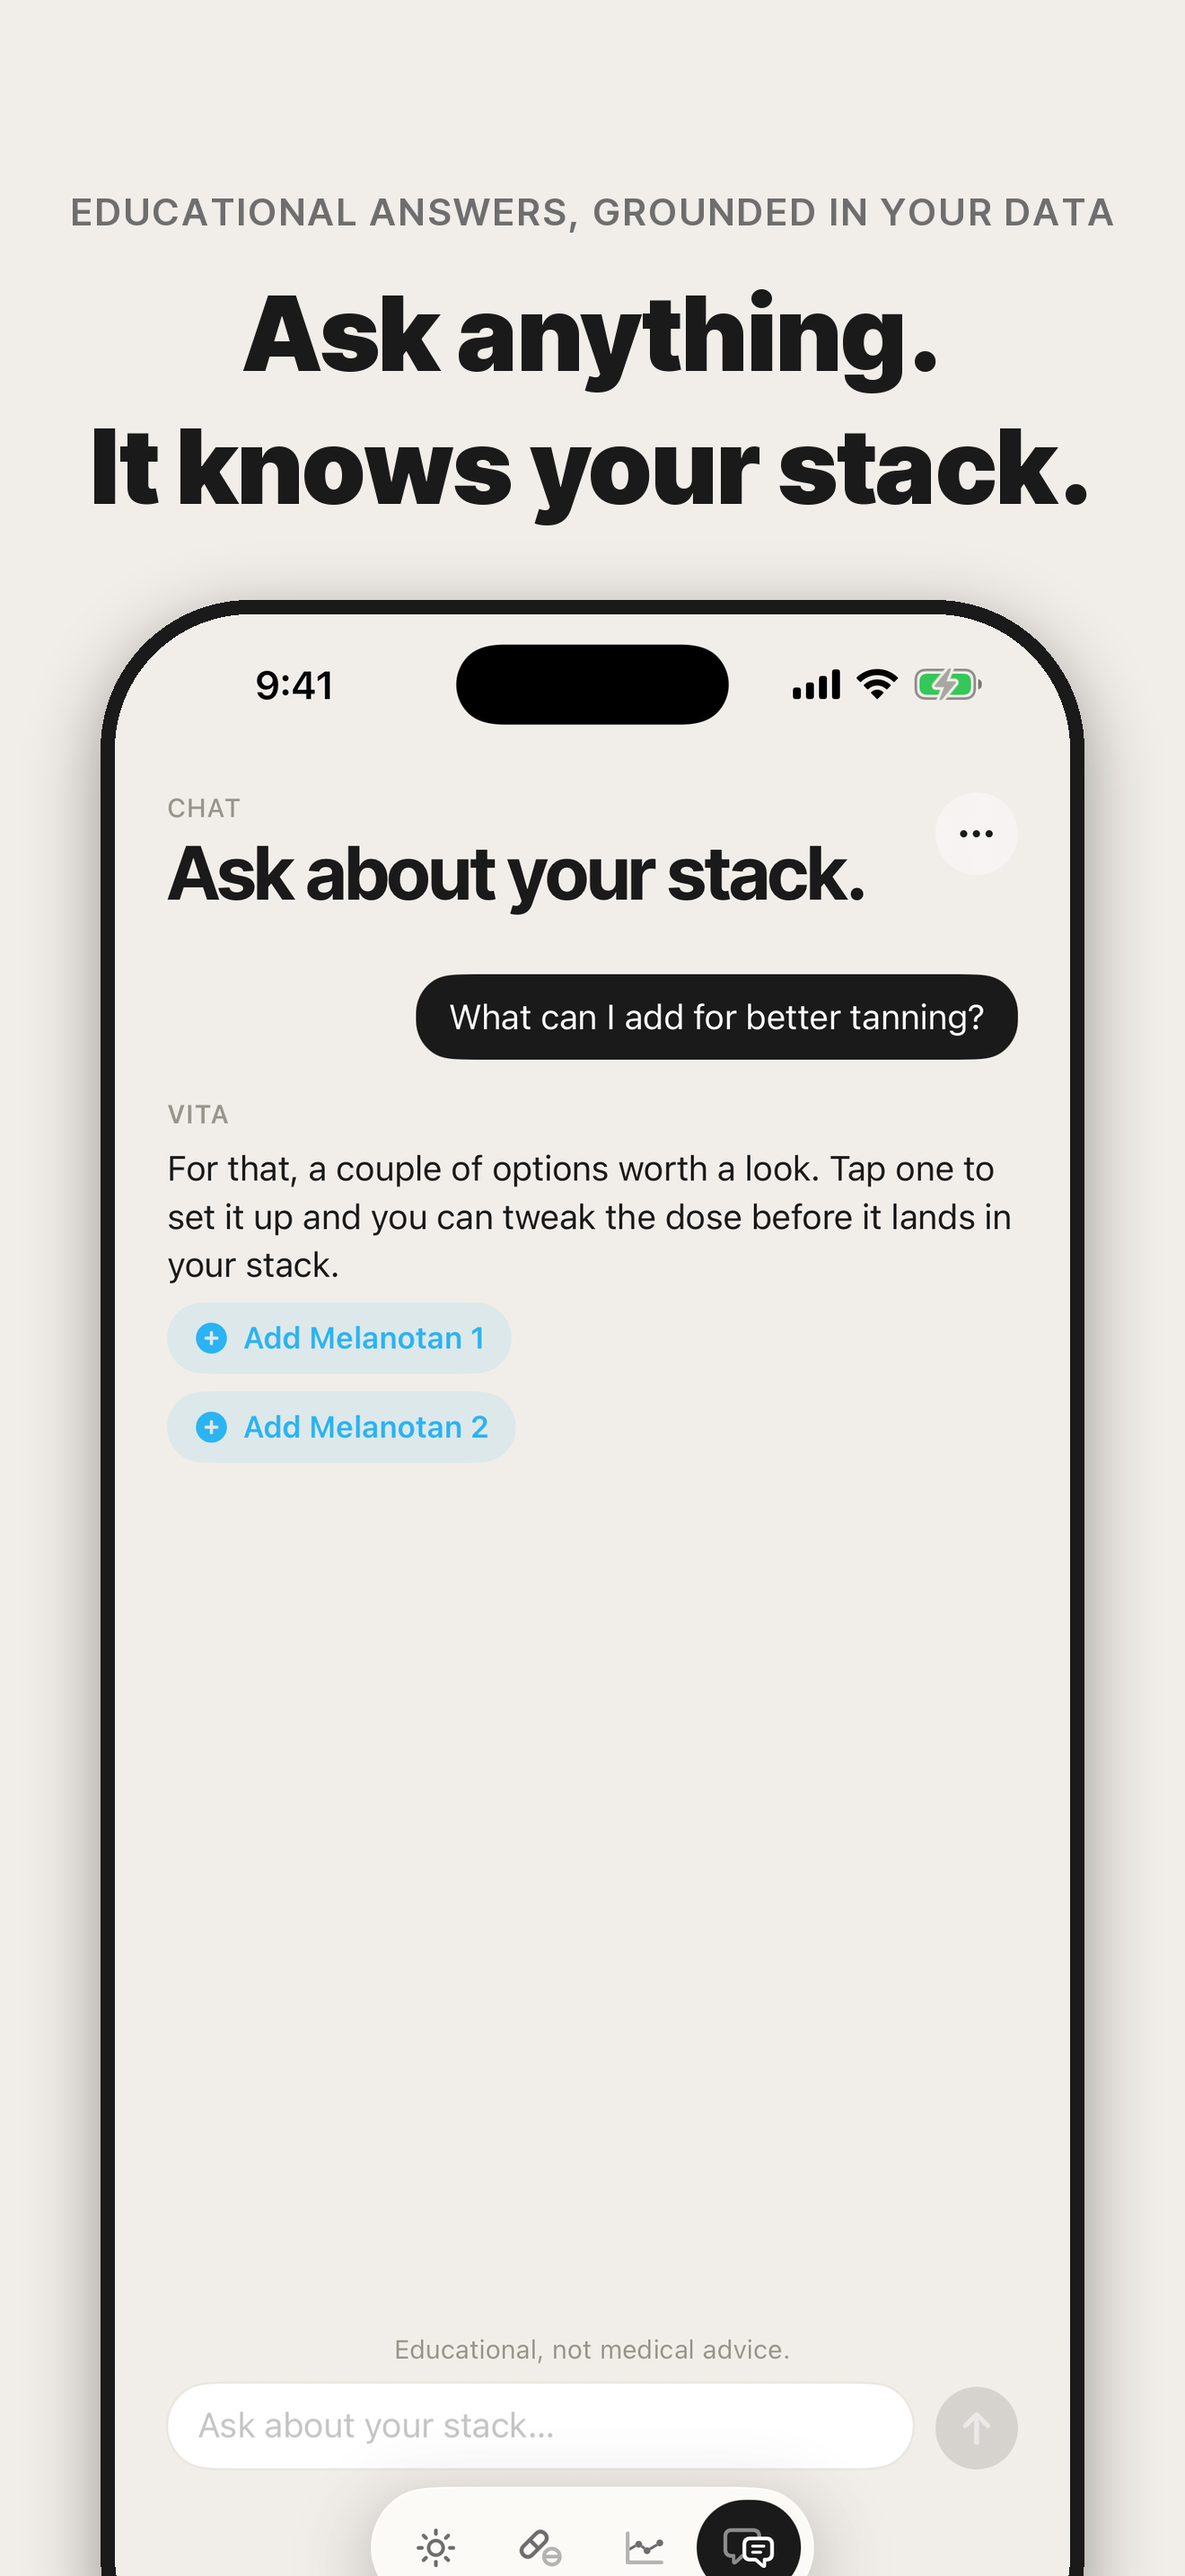
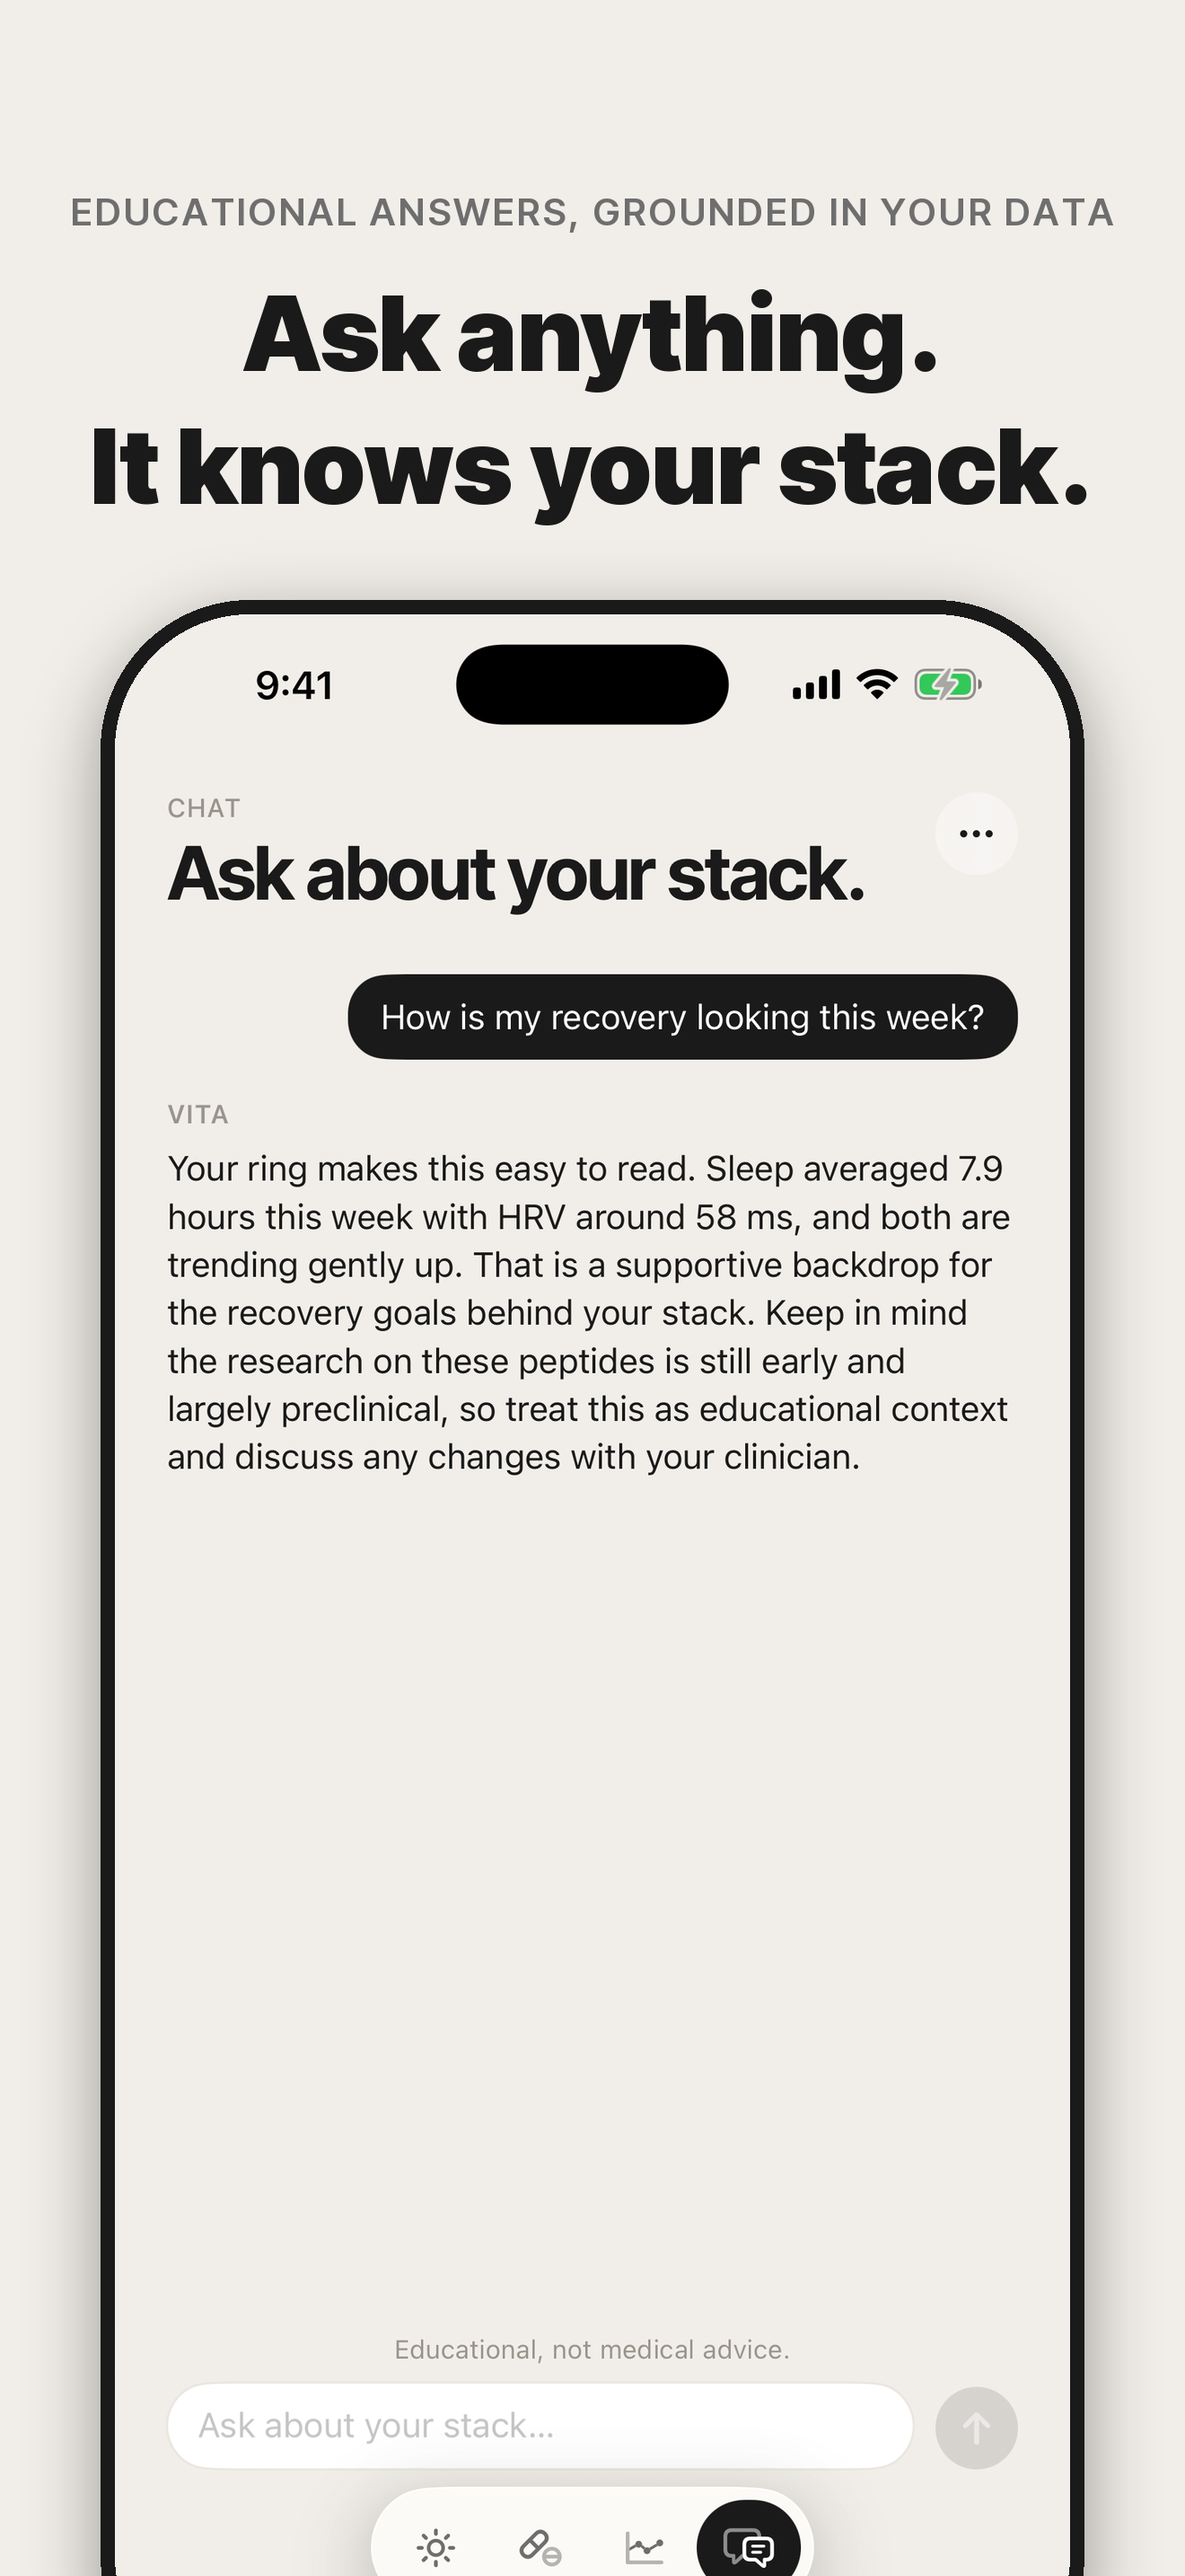
M52b: defensible chat demo (grounded educational answer, no compound suggestions)

Changed region(s): [[0.1242, 0.3724, 0.8386, 0.5896], [0.6212, 0.3724, 0.8076, 0.4034]]

diff --git a/Vita/Data/Claude/ClaudeService.swift b/Vita/Data/Claude/ClaudeService.swift
@@ -374,6 +374,25 @@ struct StubClaudeService: ClaudeServiceProviding {
             return r.filter { inCatalog.contains($0) }
         }()
 
+        // Screenshot exchange (M52): a grounded, purely educational answer with no
+        // suggestion chips, so marketing shots never show the app recommending a
+        // compound. Values mirror the VITA_OURA_DEMO diary so the set stays consistent.
+        if q.contains("recovery") {
+            let reply = "Your ring makes this easy to read. Sleep averaged 7.9 hours this week with HRV around 58 ms, and both are trending gently up. That is a supportive backdrop for the recovery goals behind your stack. Keep in mind the research on these peptides is still early and largely preclinical, so treat this as educational context and discuss any changes with your clinician."
+            return AsyncThrowingStream { continuation in
+                let task = Task {
+                    for word in reply.split(separator: " ", omittingEmptySubsequences: false) {
+                        try? await Task.sleep(nanoseconds: 28_000_000)
+                        if Task.isCancelled { continuation.finish(); return }
+                        continuation.yield(.text(String(word) + " "))
+                    }
+                    continuation.yield(.finished)
+                    continuation.finish()
+                }
+                continuation.onTermination = { _ in task.cancel() }
+            }
+        }
+
         let reply = recommend.isEmpty
             ? "Happy to talk it through. Tell me a goal and I will point you at what is worth a look."
             : "For that, a couple of options worth a look. Tap one to set it up and you can tweak the dose before it lands in your stack."

diff --git a/Vita/Features/Chat/ChatView.swift b/Vita/Features/Chat/ChatView.swift
@@ -79,7 +79,7 @@ struct ChatView: View {
             #endif
             #if DEBUG
             if ProcessInfo.processInfo.environment["VITA_CHAT_DEMO"] == "1", messages.isEmpty {
-                send("What can I add for better tanning?")
+                send("How is my recovery looking this week?")
             }
             if ProcessInfo.processInfo.environment["VITA_CHAT_FOCUS"] == "1" {
                 try? await Task.sleep(nanoseconds: 400_000_000)
